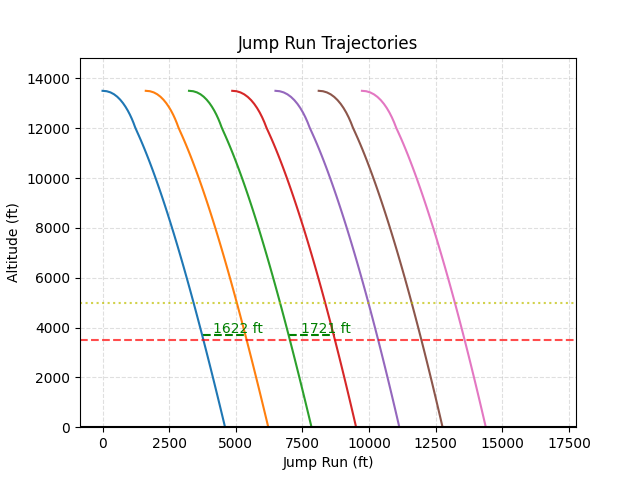
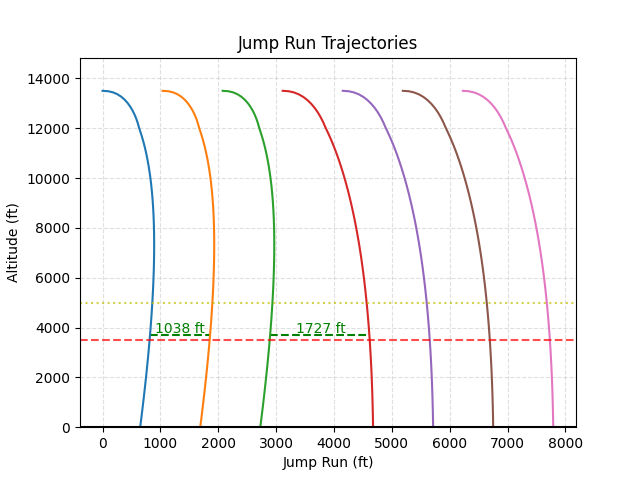
Moved global variables into main, made winds aloft print better

diff --git a/main.py b/main.py
@@ -8,6 +8,10 @@
 # TODO: Add option to import data from CSV file of the load, including number
 #       of groups, discipline for each group, average mass of the group, etc.
 # TODO: Add in y[t] to be able to create 3D plots
+# TODO: Add higher up main menu, where you can do other things besides change
+#       variables, like print out winds aloft average speed/direction
+# TODO: Look into whether I should make rho non-constant -- how much does 
+#       air density change with altitude?
 
 # Python Built-In imports
 import time
@@ -26,26 +30,9 @@ import winds as wind
 from parameters import Params
 from skydiver import Skydiver
 
-# Initialize params class, which will prompt user to setup parameter values
-params = Params()
 
 # Special Parameters
 rho = 1.0 # Air density (NOTE: will eventually not be constant)
-
-# Global runtime variables
-z0 = params.EXIT_ALT / const.M_TO_FT        # Initial Altitude in meters
-m = params.weight * const.LB_TO_KG          # Jumper mass in kg
-V_upper = params.V_upper * const.KT_TO_MPS  # Uppers in m/s (TODO: Make non-constant)
-Va = params.V_air * const.KT_TO_MPS         # Aircraft airspeed in m/s
-num_groups = params.num_rw_groups + params.num_ff_groups
-sim_time = num_groups * 20           # Simulation time in seconds
-sim_time = 120                              # TODO: Figure out how to make this
-                                            # dynamic, since the above line makes
-                                            # the x limit of the plot very negative
-
-#Q = 0                                       # rho*A*CD, to keep code clean
-#Vg = Va - V_upper                           # Aircraft groundspeed in m/s
-#x_offset = params.t_sep * Vg                # Exit separation in meters
 
 def signal_handler(sig, frame):
     print('\nYou pressed Ctrl+C, killing all display processes.')
@@ -68,7 +55,6 @@ def find_nearest(array, value):
     return closest
 
 def adjust_for_uppers(u, x, z, jump_run, winds):
-    #print(winds)
     for t in range(len(u)):
         u_adj = wind.compute_wind_adj(jump_run, z[t], winds)[0]
 
@@ -150,29 +136,42 @@ def plot_trajectories(trajectories):
     return 0
 
 if __name__ == "__main__":
+    # Initialize params class, which will prompt user to setup parameter values
+    params = Params()
+
     # Initialize signal handler
     signal.signal(signal.SIGINT, signal_handler)
+
+    # Initialize runtime variables
+    Q = 0                                       # rho*A*CD, to keep code clean
+    z0 = params.EXIT_ALT / const.M_TO_FT        # Initial Altitude in meters
+    m = params.weight * const.LB_TO_KG          # Jumper mass in kg
+    Va = params.V_air * const.KT_TO_MPS         # Aircraft airspeed in m/s
+    num_groups = params.num_rw_groups + params.num_ff_groups
+    sim_time = num_groups * 20                  # Simulation time in seconds
+    sim_time = 120                              # TODO: Figure out how to make 
+                                                # this dynamic, since the above 
+                                                # line makes the x limit of the 
+                                                # plot very negative
 
     # Array of time stamps for jump data in seconds
     t = np.array(range(sim_time))
 
-    # Initialize runtime variables
+    # Winds
     winds = wind.get_forecast()
-    #print(winds)
     wind.print_winds(winds)
-
-    Q = 0                                       # rho*A*CD, to keep code clean
-    V_upper_adj = wind.compute_wind_adj(params.jump_run, \
-                                        params.EXIT_ALT/const.M_TO_FT, \
-                                        winds)
 
     # Winds Aloft DEBUG - makes them constant at 180 from jump run
     simple_winds = False
     if simple_winds is True:
-        Vg = Va - V_upper
+        V_upper = params.V_upper * const.KT_TO_MPS  # Constat uppers in m/s
+        Vg = Va - V_upper # Aircraft groundspeed in m/s
     else:
-        Vg = Va + V_upper_adj[0]                    # Aircraft groundspeed in m/s
-    x_offset = params.t_sep * Vg                # Exit separation in meters
+        V_upper_adj = wind.compute_wind_adj(params.jump_run, \
+                                            params.EXIT_ALT/const.M_TO_FT, \
+                                            winds)
+        Vg = Va + V_upper_adj[0]        
+        x_offset = params.t_sep * Vg    # Exit separation in meters
 
     # Create an array of Skydivers based on num_groups
     load = []

diff --git a/parameters.py b/parameters.py
@@ -15,11 +15,11 @@ class Params:
         self.IDEAL_SEP       = 1000        # Ideal exit separation (1000 feet)
         self.V_upper         = 10          # Uppers in knots
         self.V_air           = 70          # Jump run airspeed in knots 
+        self.weight          = 160         # Average jumper exit weight in pounds
         self.jump_run        = 270         # Jump run direction in degrees
-        self.t_sep           = 10          # Exit separation in seconds
         self.num_rw_groups   = 3           # Number of belly groups on the load
         self.num_ff_groups   = 4           # Number of freefly groups on the load
-        self.weight          = 160         # Average jumper exit weight in pounds
+        self.t_sep           = 10          # Exit separation in seconds
         
         self.setup()
 
@@ -33,7 +33,7 @@ class Params:
         var_help['PULL_ALT'] = "Pull altitude in feet"
         var_help['IDEAL_SEP'] = "Ideal exit separation in feet (default: 1000)"
         var_help['weight'] = "Average jumper exit weight in pounds"
-        var_help['V_upper'] = "Average winds aloft uppers in knots"
+        var_help['V_upper'] = "Average winds aloft uppers in knots - only used when simple_winds is True"
         var_help['V_air'] = "Jump run aircraft airspeed in knots"
         var_help['jump_run'] = "Jump run direction in degrees"
         var_help['t_sep'] = "Exit separation in seconds"
@@ -49,7 +49,7 @@ class Params:
         keys = list(self.__dict__.keys())
         while(True):
             self.show()
-            ans = input("Enter number of variable to modify, or \'q\' to quit: ") 
+            ans = input("Enter number of variable to modify, or \'q\' to run simulation: ") 
             if ans == 'q':
                 break
             else:

diff --git a/winds.py b/winds.py
@@ -101,5 +101,9 @@ def compute_wind_adj(jump_run, altitude, winds):
     return (speed*np.cos(theta), speed*np.sin(theta))
 
 def print_winds(winds):
+    degree_sign = u"\N{DEGREE SIGN}"
+    print("\nWinds Aloft for ACY:\n")
     for altitude in winds:
-        print(winds[altitude])
+        print(str(altitude) + " ft: " + str(winds[altitude][1])+ " kts from " \
+                + str(winds[altitude][0]) + degree_sign)
+
